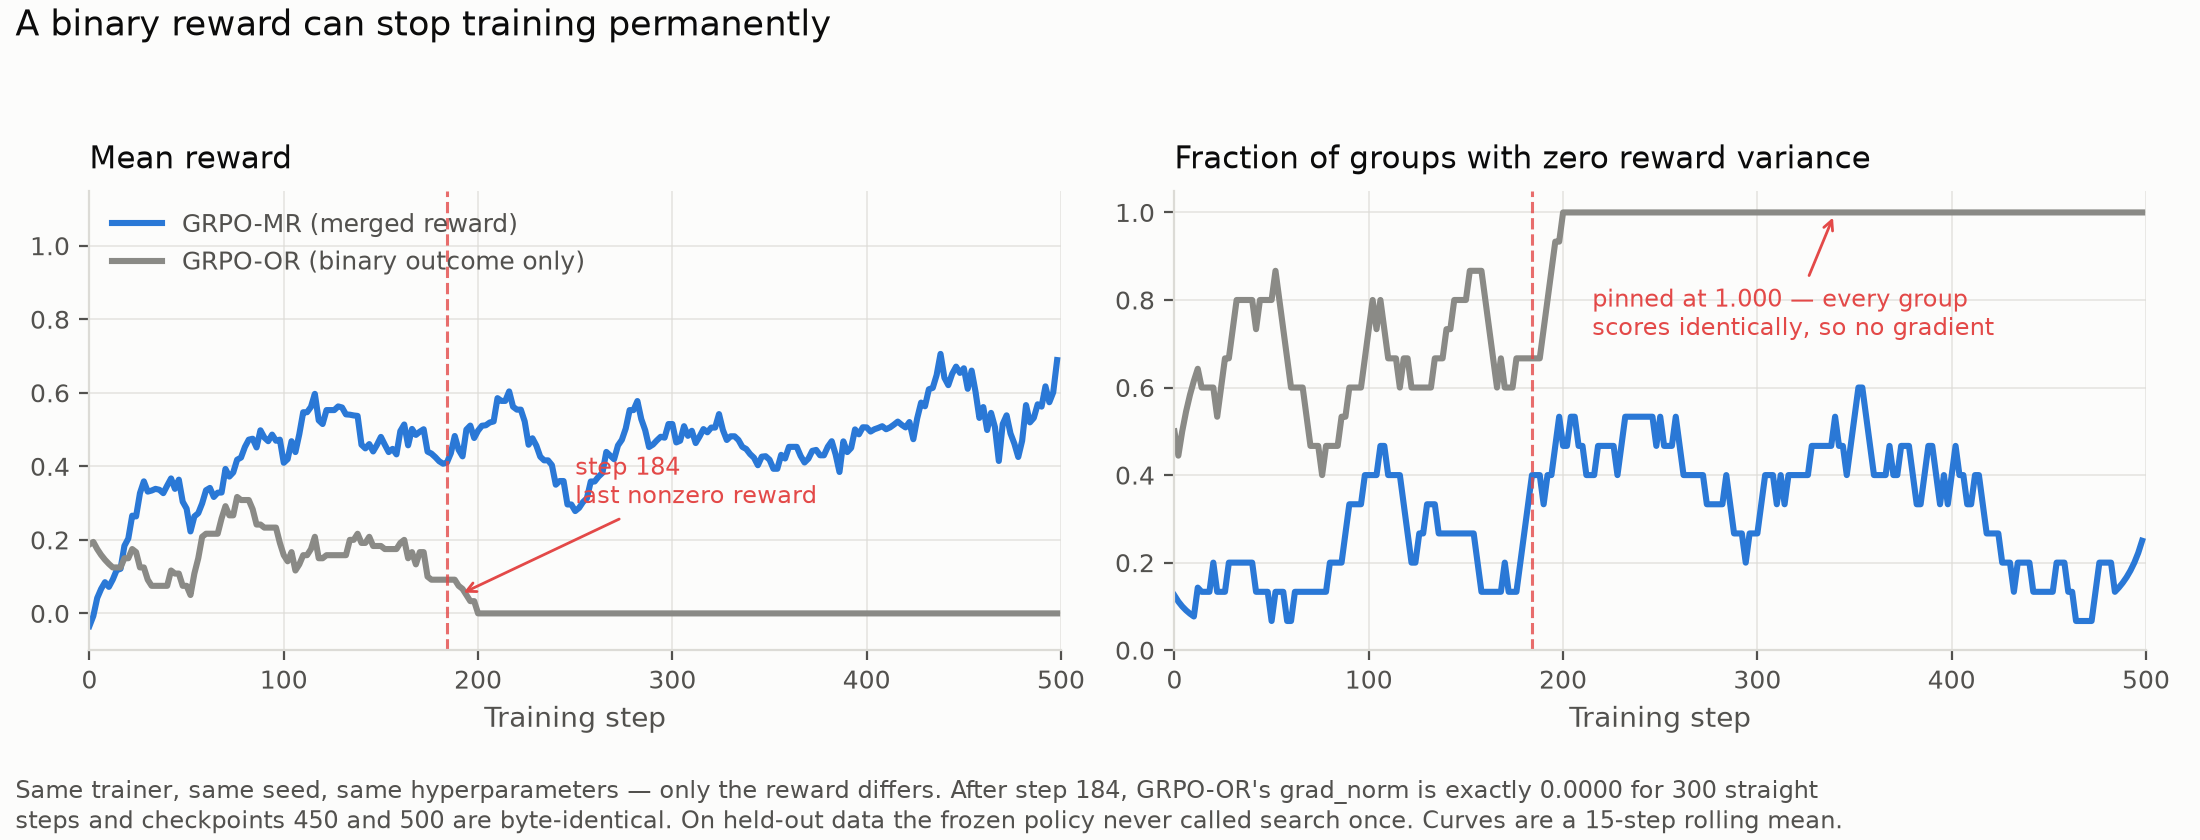
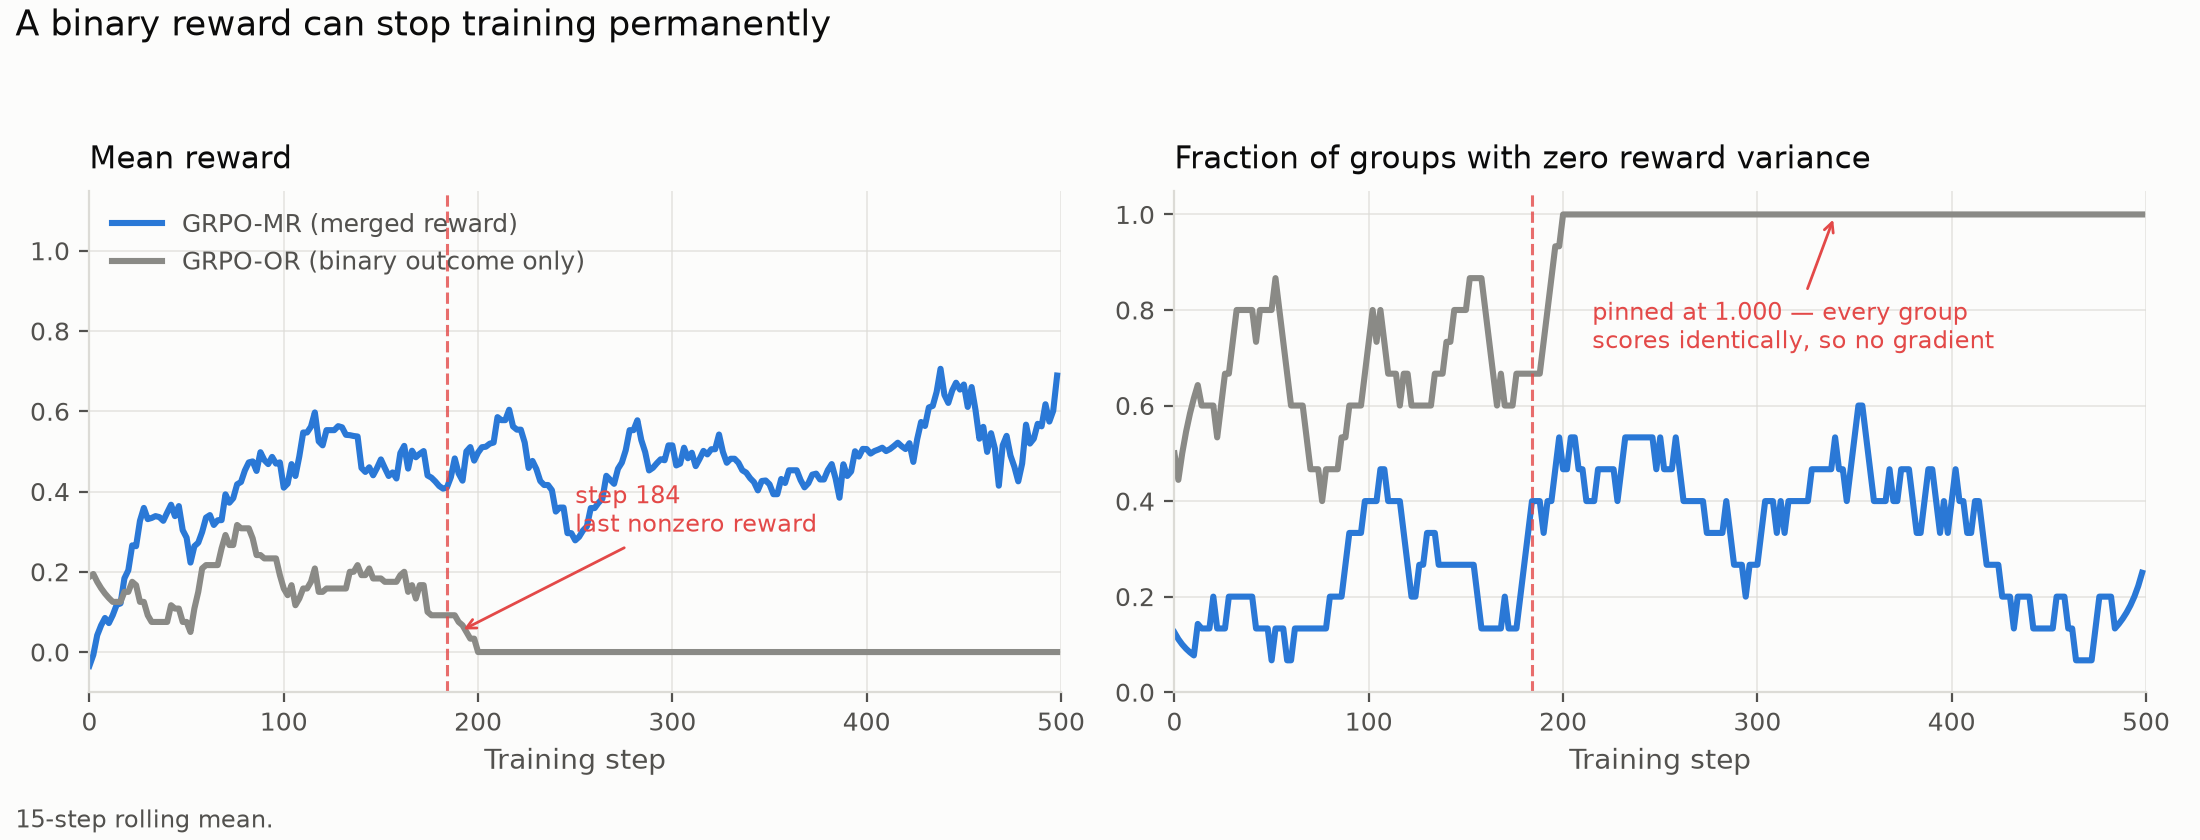
Strip the chart footnotes back to what only a caption can say
Every figure carried a paragraph restating either its own marks or the prose
sitting inches away from it. A caption competing with the bars it labels is
noise, and these had grown into comprehensive notes rather than focused
insight.

Kept exactly two kinds of caption. Smoothing disclosure, because it describes
the marks themselves -- nothing else on the page can tell a reader the curves
are not raw. And the follow-ups' incomparability caveat, because that chart
travels: its bars invite comparison against the paper arms and nothing inside
the image says they ran under a different reward, seed and step count.

Dropped everything else. The decomposition's caption restated bar values that
are printed on the bars; the collapse chart's restated grad_norm and
checkpoint evidence already in the prose, and its real annotations sit on the
data where they belong; the training chart explained where a curve visibly
stops.

diff --git a/scripts/plot_phase7c.py b/scripts/plot_phase7c.py
@@ -200,23 +200,10 @@ def plot_decomposition(summary: dict, out: Path) -> None:
         loc="left",
         pad=10,
     )
-    fig.text(
-        0.012,
-        0.05,
-        "Net +0.039 EM, reproducing the paper's +0.017. Its own PPO-MR \u2192 MT-PPO comparison moves "
-        "reward content and placement",
-        fontsize=8.5,
-        color=INK_SOFT,
-    )
-    fig.text(
-        0.012,
-        0.015,
-        "together, so it cannot separate them. n=1 seed: the content effect is large, "
-        "the placement effect suggestive.",
-        fontsize=8.5,
-        color=INK_SOFT,
-    )
-    fig.tight_layout(rect=(0, 0.09, 1, 1))
+    # No footnote: the bars carry their own values, and the argument they support -- that the
+    # paper's own comparison moves content and placement together -- is the surrounding prose's
+    # job, not a caption's.
+    fig.tight_layout(rect=(0, 0.01, 1, 1))
     fig.savefig(out, dpi=200, facecolor=SURFACE)
     plt.close(fig)
 
@@ -288,23 +275,11 @@ def plot_collapse(curves: dict, out: Path) -> None:
         ha="left",
         y=0.99,
     )
-    fig.text(
-        0.007,
-        0.05,
-        "Same trainer, same seed, same hyperparameters \u2014 only the reward differs. After step 184, "
-        "GRPO-OR's grad_norm is exactly 0.0000 for 300 straight",
-        fontsize=8.5,
-        color=INK_SOFT,
-    )
-    fig.text(
-        0.007,
-        0.014,
-        "steps and checkpoints 450 and 500 are byte-identical. On held-out data the frozen "
-        "policy never called search once. Curves are a 15-step rolling mean.",
-        fontsize=8.5,
-        color=INK_SOFT,
-    )
-    fig.tight_layout(rect=(0, 0.09, 1, 0.94))
+    # Smoothing is the one thing a caption must disclose -- it describes the marks themselves, so
+    # nothing else on the page can tell the reader these curves are not raw. The frozen-checkpoint
+    # and never-searched evidence belongs to the prose.
+    fig.text(0.007, 0.015, "15-step rolling mean.", fontsize=8.5, color=INK_SOFT)
+    fig.tight_layout(rect=(0, 0.04, 1, 0.94))
     fig.savefig(out, dpi=200, facecolor=SURFACE)
     plt.close(fig)
 
@@ -363,15 +338,9 @@ def plot_training(curves: dict, out: Path) -> None:
         ha="left",
         y=0.99,
     )
-    fig.text(
-        0.007,
-        0.015,
-        "PPO-OR's curve ends at step 129, its last step with logged metrics before the run was "
-        "stopped. 15-step rolling mean.",
-        fontsize=8.5,
-        color=INK_SOFT,
-    )
-    fig.tight_layout(rect=(0, 0.05, 1, 0.95))
+    # Where PPO-OR's curve stops is visible in the curve itself; only the smoothing needs saying.
+    fig.text(0.007, 0.015, "15-step rolling mean.", fontsize=8.5, color=INK_SOFT)
+    fig.tight_layout(rect=(0, 0.04, 1, 0.95))
     fig.savefig(out, dpi=200, facecolor=SURFACE)
     plt.close(fig)
 
@@ -451,13 +420,15 @@ def plot_followups(out: Path) -> None:
     fig.text(
         0.007,
         0.015,
+        # Kept because it travels with the image: these bars invite comparison against the paper
+        # arms, and nothing in the chart itself says they were run under a different reward, seed
+        # and step count. What the bars already show is left to the bars.
         "Graded reward (F1 + exact-match bonus), seed 123, 600 steps — a separate track from the "
-        "paper reproduction, not comparable to it.\nOutcome-only collapses under either penalty, "
-        "answering in ~12-21 tokens; the merged reward degrades but stays coherent.",
+        "paper reproduction, not comparable to it.",
         fontsize=8.5,
         color=INK_SOFT,
     )
-    fig.tight_layout(rect=(0, 0.08, 1, 0.95))
+    fig.tight_layout(rect=(0, 0.05, 1, 0.95))
     fig.savefig(out, dpi=200, facecolor=SURFACE)
     plt.close(fig)
 
